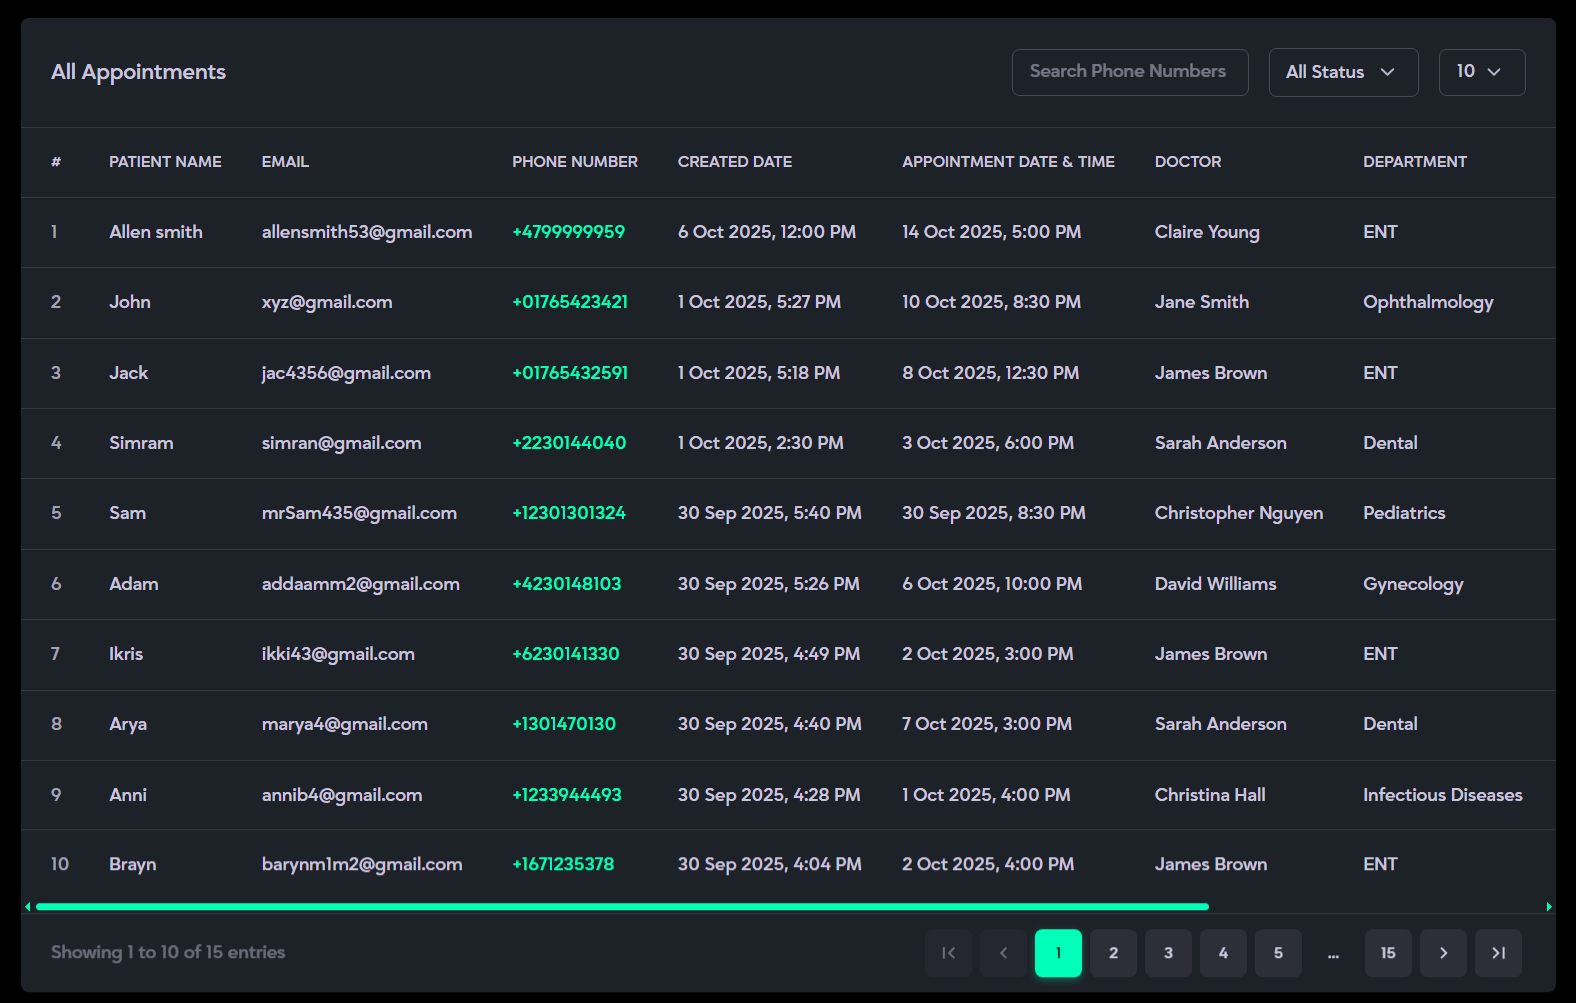
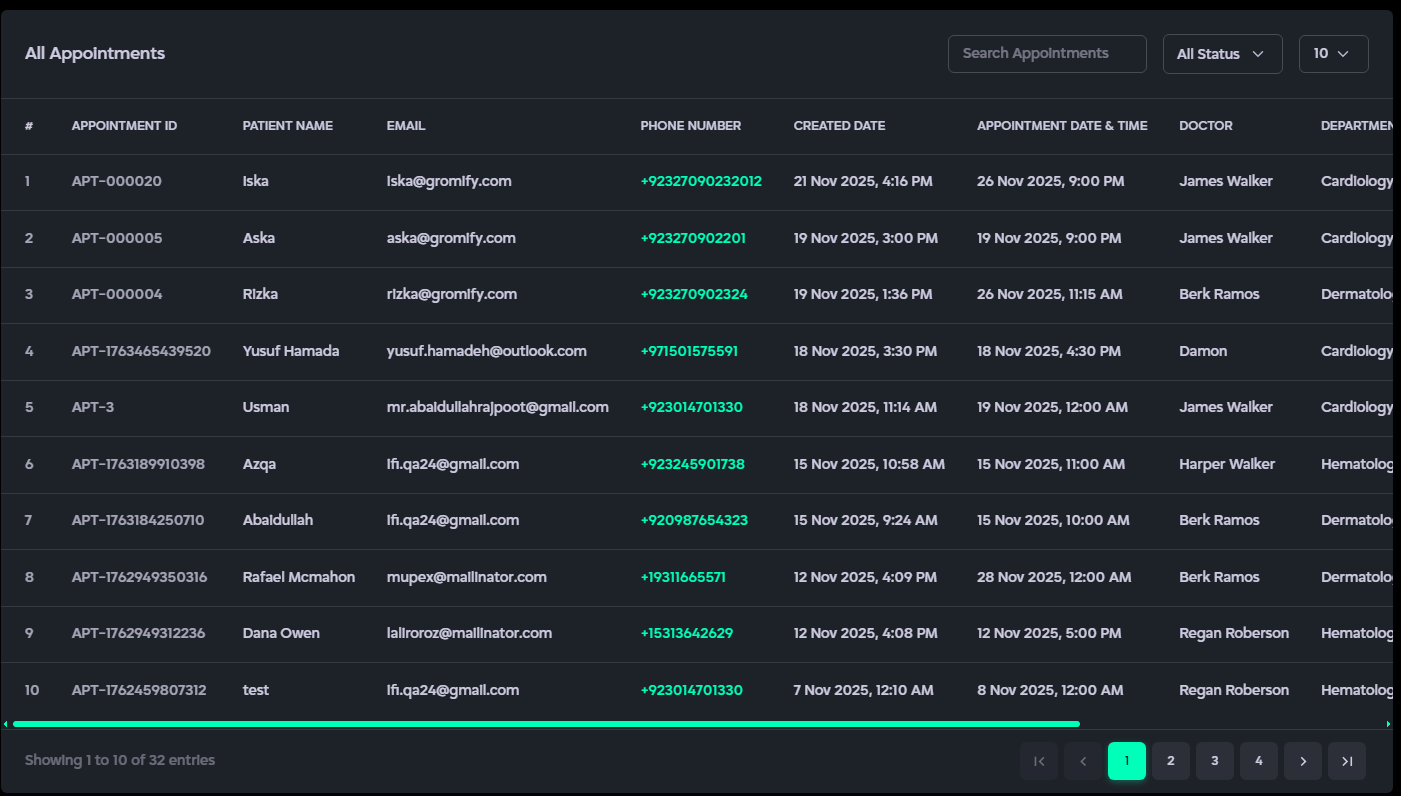
content changed

diff --git a/src/app/content/page.jsx b/src/app/content/page.jsx
@@ -181,11 +181,10 @@ const page = () => {
                       standardized to your selected time zone.
                     </li>
                     <li>
-                      Includes a date filter to review Call Activity, Total
-                      Appointments, and Survey Overview within selected ranges
-                      (Last 7 Days, Last 15 Days, Last 30 Days, or a Custom
-                      Range). <br /> The default time filter is set to Last 7
-                      days.
+                      Includes a date filter to review Call Activity, and Survey
+                      Overview within selected ranges (Last 7 Days, Last 15
+                      Days, Last 30 Days, or a Custom Range). The default time
+                      filter is set to Last 7 days.
                     </li>
 
                     <li>
@@ -231,9 +230,10 @@ const page = () => {
                     <strong>What it is:</strong>
                   </p>
                   <p>
-                    {" "}
-                    The <strong>Total Appointments</strong> card shows the total
-                    number of appointments booked over time, helping you monitor
+                    The <strong>Total Appointments</strong> card displays the
+                    total number of appointments booked. By default, it shows
+                    appointments for the current month, but you can use the
+                    monthly filter to view previous months. This helps track
                     scheduling activity and identify trends.
                   </p>
 
@@ -242,31 +242,25 @@ const page = () => {
                   </p>
                   <ul className="lists">
                     <li>
-                      Automatically tracks and counts all appointments created
-                      within the system.
+                      Automatically counts all appointments created in the
+                      system.
                     </li>
                     <li>
-                      Updates periodically as new appointments are added to the
-                      system, no matter their status.
+                      Updates in real-time as new appointments are added,
+                      regardless of their status.
                     </li>
                     <li>
-                      Displays a visual graph with color-coded segments for each
+                      Shows a visual graph with color-coded segments for each
                       department.
-                      <ul className="lists">
-                        <li>
-                          <strong>Top 5 departments</strong> with the greatest
-                          number of appointments are shown{" "}
-                          <strong>individually</strong> based on the selected
-                          filter.
-                        </li>
-                        <li>
-                          <strong>Default filter:</strong> Last 7 days.
-                        </li>
-                        <li>
-                          All other departments are grouped under{" "}
-                          <strong>"Others"</strong> for a clean, focused view.
-                        </li>
-                      </ul>
+                    </li>
+                    <li>
+                      The top 5 departments with the highest number of
+                      appointments are displayed individually. All other
+                      departments with fewer appointments are grouped under
+                      Others for a clear, focused view.
+                    </li>
+                    <li>
+                      <strong>Default filter:</strong> Current Month.
                     </li>
                   </ul>
 
@@ -358,8 +352,8 @@ const page = () => {
                   </p>
                   <p>
                     The <strong>Calendar Appointments</strong> card provides a
-                    quick summary of all scheduled appointments, offering
-                    instant visibility into booking activity.
+                    quick overview of all scheduled appointments, giving instant
+                    insight into booking activity.
                   </p>
 
                   <p>
@@ -367,41 +361,46 @@ const page = () => {
                   </p>
                   <ul className="lists">
                     <li>
-                      Displays the total number of appointments created in the
-                      system.
+                      Shows the total number of appointments in the system.
                     </li>
                     <li>
-                      Separates the count of <strong>New Appointments</strong>{" "}
-                      (upcoming scheduled bookings) and
-                      <strong>Past Appointments</strong> (completed or expired).
+                      Separates counts into:
+                      <ul className="lists">
+                        <li>
+                          <strong>New Appointments</strong> – upcoming scheduled
+                          bookings
+                        </li>
+                        <li>
+                          <strong>Past/Missed Appointments</strong> – cancelled
+                          or expired bookings
+                        </li>
+                        <li>
+                          <strong>Completed Appointments</strong> – all
+                          successfully completed bookings
+                        </li>
+                      </ul>
                     </li>
                     <li>
-                      Shows <strong>Last 7 Days</strong> data for a quick view
-                      of recent schedulings.
+                      Includes a circular progress indicator to visualize the
+                      percentage of completed appointments.
                     </li>
                     <li>
-                      Features a <strong>circular progress indicator</strong>{" "}
-                      that visually represents the percentage of successfully
-                      completed appointments.
-                    </li>
-                    <li>
-                      Updates automatically as new appointments are created or
-                      existing ones are completed, ensuring real-time accuracy.
+                      Updates automatically as appointments are added or
+                      completed, ensuring real-time accuracy.
                     </li>
                   </ul>
 
-                  <h4>Today Report</h4>
+                  <h4>Today Appointments</h4>
                   <p>
                     <strong>What it is:</strong>
                   </p>
                   <p>
-                    {" "}
-                    The Today Report section provides a comprehensive overview
-                    of all patient appointments scheduled for the current day.
-                    It enables hospital staff to efficiently monitor, manage,
-                    and track appointment activities in real time, ensuring
-                    smooth operations and timely patient handling throughout the
-                    day.
+                    The Today Appointments' section provides a comprehensive
+                    overview of all patient appointments scheduled for the
+                    current day. It enables hospital staff to efficiently
+                    monitor, manage, and track appointment activities in real
+                    time, ensuring smooth operations and timely patient handling
+                    throughout the day.
                   </p>
 
                   <p>
@@ -982,10 +981,7 @@ const page = () => {
               <div className="intero">
                 <h1>Appointments</h1>
                 <p className="popins-data-helpex">
-                  The <strong>Appointments</strong> section provides a
-                  comprehensive view of all scheduled bookings in one place. It
-                  allows you to quickly <strong>view, search, and track</strong>{" "}
-                  appointment details, including the{" "}
+                  The <strong>Appointments</strong> section provides a comprehensive view of all scheduled bookings in one place. It allows you to quickly <strong>view, search,</strong> and <strong>track</strong> appointment details, including the <strong>Appointment ID, department, doctor’s name, appointment creation date and time, appointment date and time,</strong> and <strong>patient information</strong> such as name, phone number, and email. You can also monitor the status of each appointment, whether it’s confirmed, completed, or canceled. This section ensures that all appointments remain well-organized, easily accessible, and efficiently managed for smooth clinic operations.
                   <strong>
                     department, doctor’s name, appointment date and time,
                   </strong>{" "}
@@ -1083,8 +1079,7 @@ const page = () => {
                     </p>
                     <ul className="lists ">
                       <li>
-                        <strong>Appointment Details:</strong> View all booked
-                        appointments in a single interface.
+                        <strong>Appointment Details:</strong>  View all booked appointments in a single, organized interface, each displayed with a unique Appointment ID.
                       </li>
                       <li>
                         <strong>Patient Information:</strong> Includes Name,
@@ -1163,8 +1158,7 @@ const page = () => {
                         </p>
                         <ul className="lists steps">
                           <li data-target="12" className="cursor-pointer">
-                            Open the <strong>Appointments</strong> section to
-                            view all booked appointments in a single list.
+                            Open the Appointments section to view all booked appointments in a single list, each displayed with its unique Appointment ID.
                             <div>
                               <img
                                 className="mobile-step-img"
@@ -6173,20 +6167,21 @@ const page = () => {
                       </p>
                       <p>
                         The <strong>WhatsApp Configuration</strong> section
-                        links your system with WhatsApp to automate patient
+                        connects your system with WhatsApp to automate patient
                         communication, including appointment confirmations,
-                        reminders, and feedback polls. It ensures smooth message
-                        delivery and stable integration with your WhatsApp API
-                        setup.
+                        reminders, follow-ups, and feedback polls. It ensures
+                        smooth message delivery and stable integration with your
+                        WhatsApp API setup.
                       </p>
                       <p>
                         <strong>Description:</strong>
                       </p>
                       <ul className="lists">
                         <li>
-                          Displays existing configurations with details like{" "}
-                          <strong>Instance ID</strong>, <strong>Status</strong>,
-                          and <strong>Action</strong> (View Details).
+                          Displays all existing configurations with details such
+                          as <strong>Instance ID</strong>,{" "}
+                          <strong>Status</strong>, and{" "}
+                          <strong>Actions (View Details)</strong>.
                         </li>
                         <li>
                           Allows adding a new configuration using the{" "}
@@ -6194,11 +6189,25 @@ const page = () => {
                           setup).
                         </li>
                         <li>
-                          Requires entering WhatsApp API credentials such as{" "}
-                          <strong>Instance ID</strong>,
-                          <strong> Webhook URL</strong>, and{" "}
-                          <strong>Webhook Event</strong> to enable
+                          Requires entering{" "}
+                          <strong>WhatsApp API credentials</strong> such as
+                          <strong>Instance ID</strong>,{" "}
+                          <strong>Webhook URL</strong>, and{" "}
+                          <strong>Webhook Event</strong> to activate
                           WhatsApp-based reminders and notifications.
+                        </li>
+                        <li>
+                          To configure WhatsApp for AI messaging or automated
+                          notifications, the user must be subscribed to any
+                          active package. Without an active subscription,
+                          WhatsApp configuration cannot be completed.
+                        </li>
+                        <li>
+                          If the user{" "}
+                          <strong>disconnects their WhatsApp</strong> from the
+                          panel, all automated WhatsApp chat, AI messaging, and
+                          WhatsApp notifications will be{" "}
+                          <strong>immediately disabled</strong>.
                         </li>
                       </ul>
                     </div>
